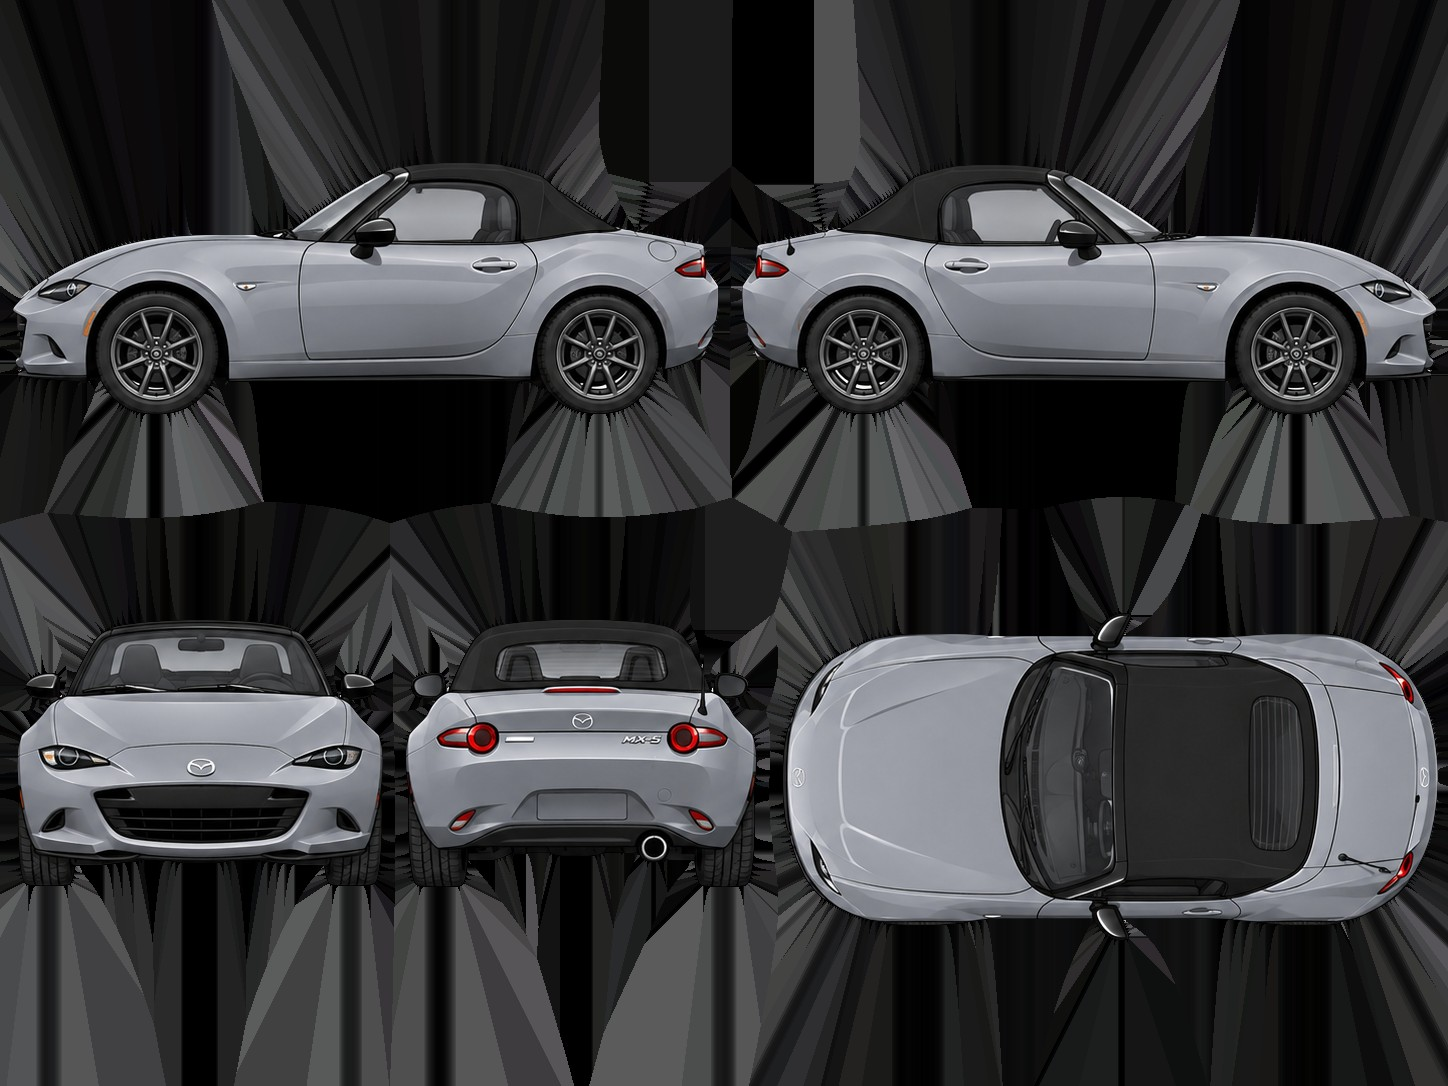
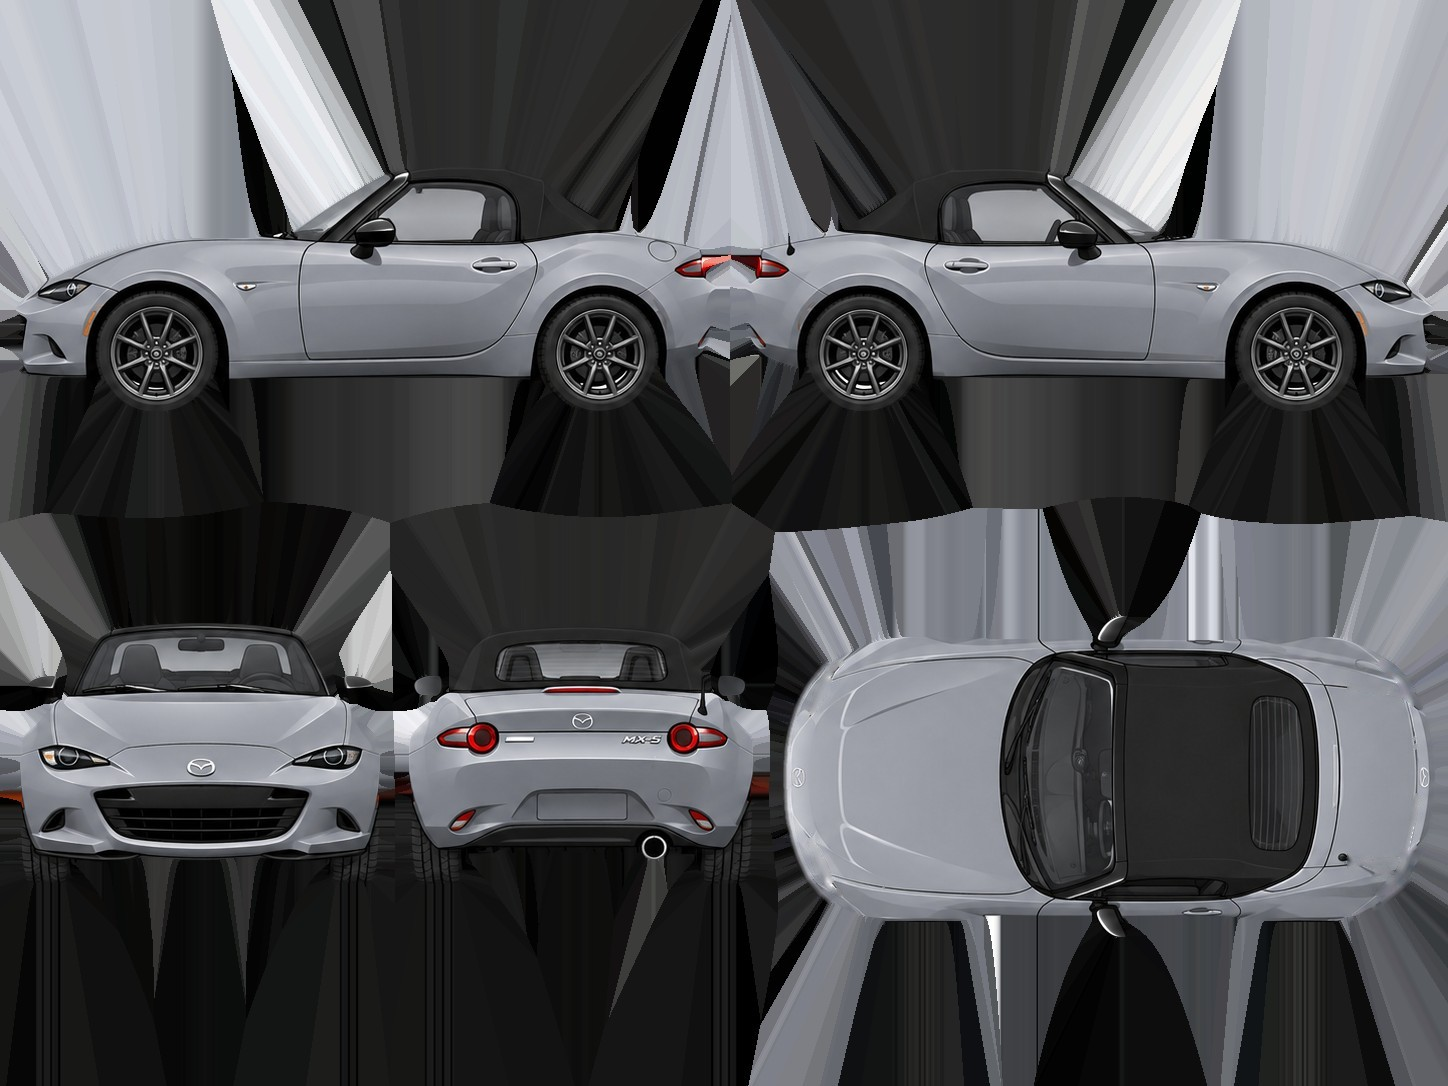
Fix doubled headlights and tail lights on the MX-5 and V60
The top-down photo repeated the lamps at the nose and tail, and dark outline
pixels at the photo edges streaked over the bodywork. Lamps are now removed
from the top view and edge outlines are bled away.

Claude-Session: https://claude.ai/code/session_0152oZwGpsfHUWFfvXYNFZ4i

diff --git a/public/js/newcars.js b/public/js/newcars.js
@@ -43,7 +43,7 @@ function build(cfg){
  const uvOf=(k,x,y,z)=>{const p=P5[k];let u,v;if(k===0){u=p[0]-z*p[1];v=p[2]-y*p[3]}else if(k===1){u=p[0]+z*p[1];v=p[2]-y*p[3]}else if(k===2){u=p[0]-z*p[1];v=p[2]+x*p[3]}else if(k===3){u=p[0]+x*p[1];v=p[2]-y*p[3]}else{u=p[0]-x*p[1];v=p[2]-y*p[3]}return[u/IW,v/IH]};
  const NV=pos.length/3,nrm=gN.attributes.normal,posA=new THREE.Float32BufferAttribute(pos,3),idxA=new THREE.BufferAttribute(new Uint16Array(idx),1);
  const UVs=[0,1,2,3,4].map(()=>new Float32Array(NV*2)),COLs=[0,1,2,3,4].map(()=>new Float32Array(NV*4));
- for(let v=0;v<NV;v++){const x=pos[v*3],y=pos[v*3+1],z=pos[v*3+2],nx=nrm.getX(v),ny=nrm.getY(v),nz=nrm.getZ(v),E=5;
+ for(let v=0;v<NV;v++){const x=pos[v*3],y=pos[v*3+1],z=pos[v*3+2],nx=nrm.getX(v),ny=nrm.getY(v),nz=nrm.getZ(v),E=7;
   const w=[Math.pow(Math.max(nx,0),E),Math.pow(Math.max(-nx,0),E),ny>0?Math.pow(ny,8):0,Math.pow(Math.max(nz,0),E),Math.pow(Math.max(-nz,0),E)];
   let cum=0;const dk=1-.9*Math.min(1,Math.max(0,(-ny-.55)/.35));
   for(let k=0;k<5;k++){cum+=w[k];const u=uvOf(k,x,y,z);UVs[k][v*2]=u[0];UVs[k][v*2+1]=u[1];const a=cum>1e-9?w[k]/cum:0;COLs[k].set([dk,dk,dk,k===0?1:a],v*4)}}
